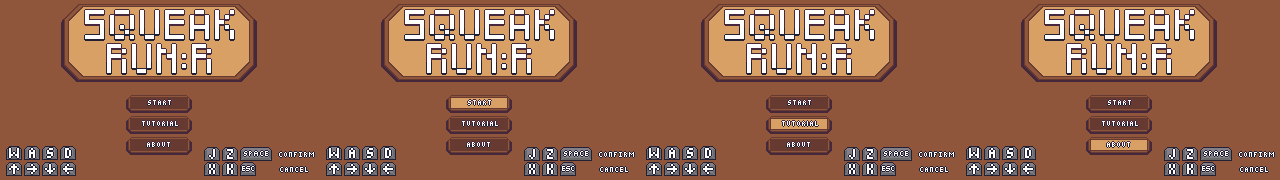
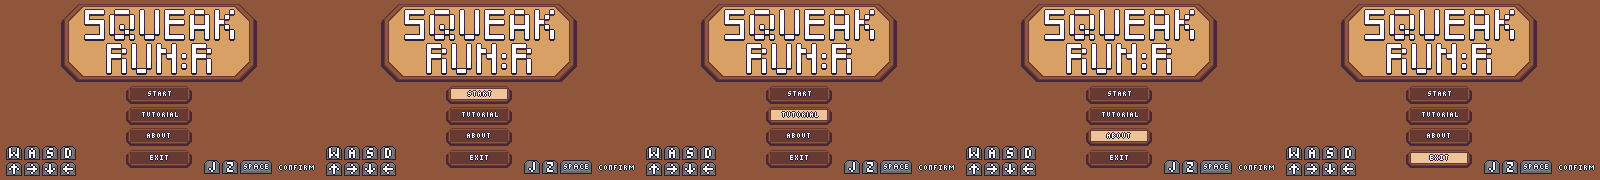
added exit button

diff --git a/app/gameplay/scenes/main_menu/scene_main_menu.rb b/app/gameplay/scenes/main_menu/scene_main_menu.rb
@@ -24,7 +24,7 @@ module RatGame
 
             if Globals::Inputs.down_down
                 Globals.outputs.sounds << "content/sounds/select.wav"
-                @current_index += 1 if @current_index < 3
+                @current_index += 1 if @current_index < 4
             end
 
             if Globals::Inputs.up_down
@@ -36,6 +36,7 @@ module RatGame
                 Globals.outputs.sounds << "content/sounds/select.wav"
                 case @current_index
                 when 1 then Globals.state.scene.manager.change_scene(:level_menu)
+                when 4 then $args.gtk.request_quit
                 end
             end
 
